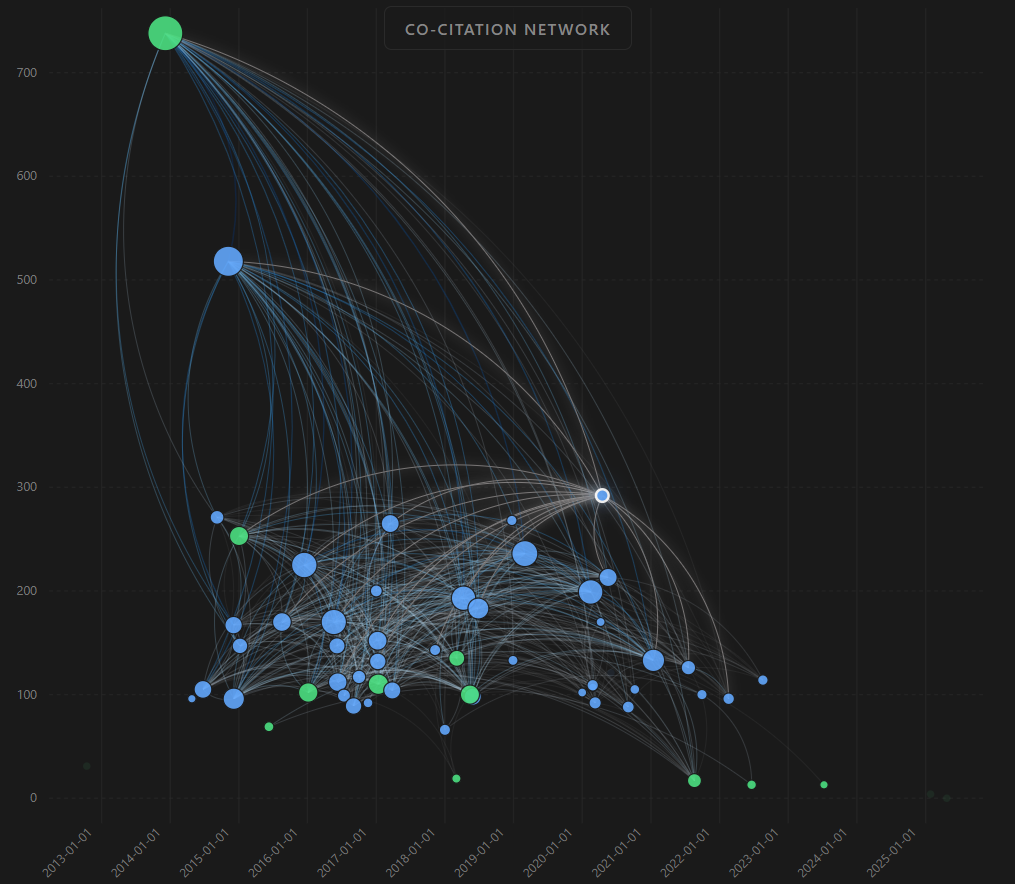
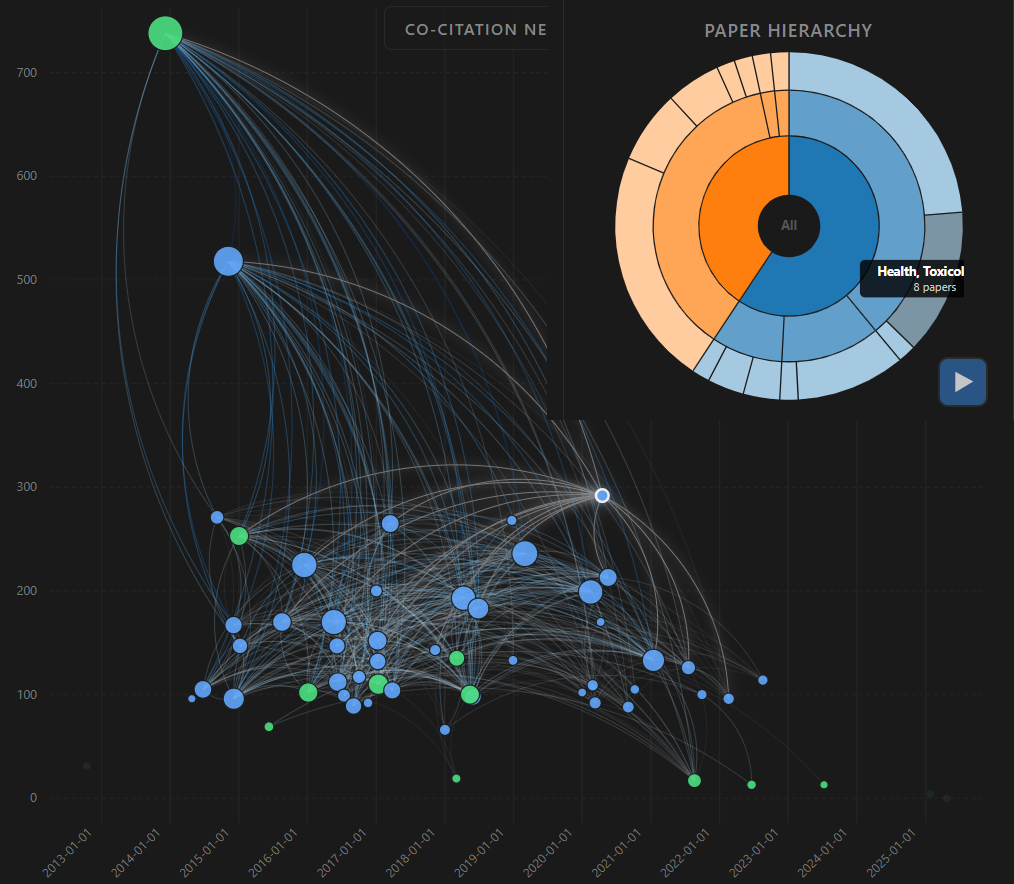
fix treemap

diff --git a/src/analytics.js b/src/analytics.js
@@ -213,7 +213,9 @@ function updateAnalytics(mode = "both") {
 
 
     // --- Radial Treemap (Sunburst) ---
-    const radialContainer = panel.append("div").attr("class", "radial-chart-container");
+    const radialContainer = panel.append("div")
+        .attr("class", "radial-chart-container")
+        .style("position", "relative"); // For absolute overlay positioning
     
     radialContainer.append("div")
         .style("font-size", "14px")
@@ -279,6 +281,22 @@ function updateAnalytics(mode = "both") {
         .sum(d => d.value)
         .sort((a, b) => b.value - a.value);
 
+    // Calculate readCount for every node
+    root.eachAfter(node => {
+        if (node.children) {
+            node.readCount = node.children.reduce((sum, c) => sum + c.readCount, 0);
+        } else {
+            // Leaf
+            node.readCount = 0;
+            if (node.data.paperIds) {
+                node.readCount = node.data.paperIds.filter(id => {
+                    const meta = paperMeta.get(id);
+                    return meta && meta.isRead;
+                }).length;
+            }
+        }
+    });
+
     partition(root);
 
     // Scales for zooming
@@ -313,11 +331,69 @@ function updateAnalytics(mode = "both") {
         })
         .style("cursor", "pointer")
         .style("opacity", 1)
-        .on("mouseover", function() { d3.select(this).style("opacity", 0.7); })
-        .on("mouseout", function() { d3.select(this).style("opacity", 1); })
-        .on("click", clicked)
-        .append("title")
-        .text(d => `${d.ancestors().map(d => d.data.name).reverse().join(" -> ")}\n${format(d.value)} papers`);
+        .on("mouseover", function(event, d) { 
+            d3.select(this).style("opacity", 0.3); // Dim background
+            
+            // Remove existing SVG overlay/fill if any
+            radialSvg.selectAll(".arc-overlay").remove(); // Cleanup legacy if any
+            radialSvg.selectAll(".arc-fill").remove();
+
+            // --- 1. Peripheral Fill (Read Coverage) ---
+            const pct = d.value > 0 ? (d.readCount / d.value) : 0;
+            if (pct > 0) {
+                const span = d.x1 - d.x0;
+                const filledX1 = d.x0 + span * pct;
+                const filledData = { ...d, x1: filledX1 };
+                
+                radialSvg.append("path")
+                    .attr("class", "arc-fill")
+                    .attr("d", arc(filledData))
+                    .style("fill", "#4ADE80")
+                    .style("pointer-events", "none")
+                    .style("opacity", 0.8);
+            }
+
+            // --- 2. HTML Overlay (on top of everything) ---
+            let overlay = radialContainer.select(".radial-overlay");
+            if (overlay.empty()) {
+                overlay = radialContainer.append("div")
+                    .attr("class", "radial-overlay")
+                    .style("position", "absolute")
+                    .style("pointer-events", "none")
+                    .style("background", "rgba(0,0,0,0.2)")
+                    .style("border", "1px solid #444")
+                    .style("padding", "6px 10px")
+                    .style("border-radius", "4px")
+                    .style("color", "#fff")
+                    .style("font-size", "11px")
+                    .style("text-align", "center")
+                    .style("z-index", "2000")
+                    .style("box-shadow", "0 4px 12px rgba(0,0,0,0.5)")
+                    .style("min-width", "120px");
+            }
+
+            const centroid = arc.centroid(d);
+            // Center is at rWidth/2, rHeight/2. Overlay should be centered on centroid.
+            const centerX = rWidth / 2 + centroid[0];
+            const centerY = rHeight / 2 + centroid[1];
+
+            overlay.style("display", "block")
+                .html(`
+                    <div style="font-weight: bold; margin-bottom: 2px;">${d.data.name}</div>
+                    <div style="color: #ccc; font-size: 10px;">
+                        ${format(d.value)} papers<br/>
+                        <span style="color: #4ADE80;">${Math.round(pct * 100)}% read</span>
+                    </div>
+                `)
+                .style("left", (centerX - 60) + "px") // 60 is half of min-width
+                .style("top", (centerY - 25) + "px");
+        })
+        .on("mouseout", function() { 
+            d3.select(this).style("opacity", 1);
+            radialSvg.selectAll(".arc-fill").remove();
+            radialContainer.select(".radial-overlay").style("display", "none");
+        })
+        .on("click", clicked);
 
     let focus = root;
 
@@ -395,11 +471,41 @@ function highlightAnalyticsSubfield(subfieldName, isActive) {
     const svg = d3.select(".radial-chart-container svg");
     if (svg.empty()) return;
 
-    svg.selectAll("path")
-        .filter(d => d.data.name === subfieldName)
-        .style("opacity", isActive ? 0.7 : 1)
-        .style("stroke", isActive ? "#fff" : null)
-        .style("stroke-width", isActive ? "2px" : null);
+    if (!isActive) {
+        // Reset state
+        svg.selectAll("path").style("opacity", 1);
+        svg.selectAll(".arc-fill").remove();
+        d3.select(".radial-chart-container").select(".radial-overlay").style("display", "none");
+        return;
+    }
+
+    // Find the matching data node
+    const matchingPath = svg.selectAll("path")
+        .filter(d => d.data.name === subfieldName);
+
+    if (matchingPath.empty()) return;
+
+    // Trigger the hover effect manually
+    matchingPath.each(function(d) {
+        // We need the 'arc' generator which is defined inside updateAnalytics scope.
+        // Since we can't access it here, we have to reconstruct it or expose it.
+        // However, we can re-select the context or use the data attached to the path.
+        // A cleaner way is to dispatch the 'mouseover' event, but d3 events are complex to simulate perfectly
+        // with custom data.
+        
+        // BETTER APPROACH: Move the rendering logic to a shared helper or duplicate the critical parts.
+        // Given the constraints, I will duplicate the critical logic here, but I need 'arc' and 'radius'.
+        // Since 'arc' relies on 'x' and 'y' scales which are local and dynamic (zooming),
+        // we can't easily reconstruct them without scope access.
+
+        // WORKAROUND: Dispatch a native MouseEvent to the node.
+        const event = new MouseEvent('mouseover', {
+            view: window,
+            bubbles: true,
+            cancelable: true
+        });
+        this.dispatchEvent(event);
+    });
 }
 
 // Make it globally accessible
